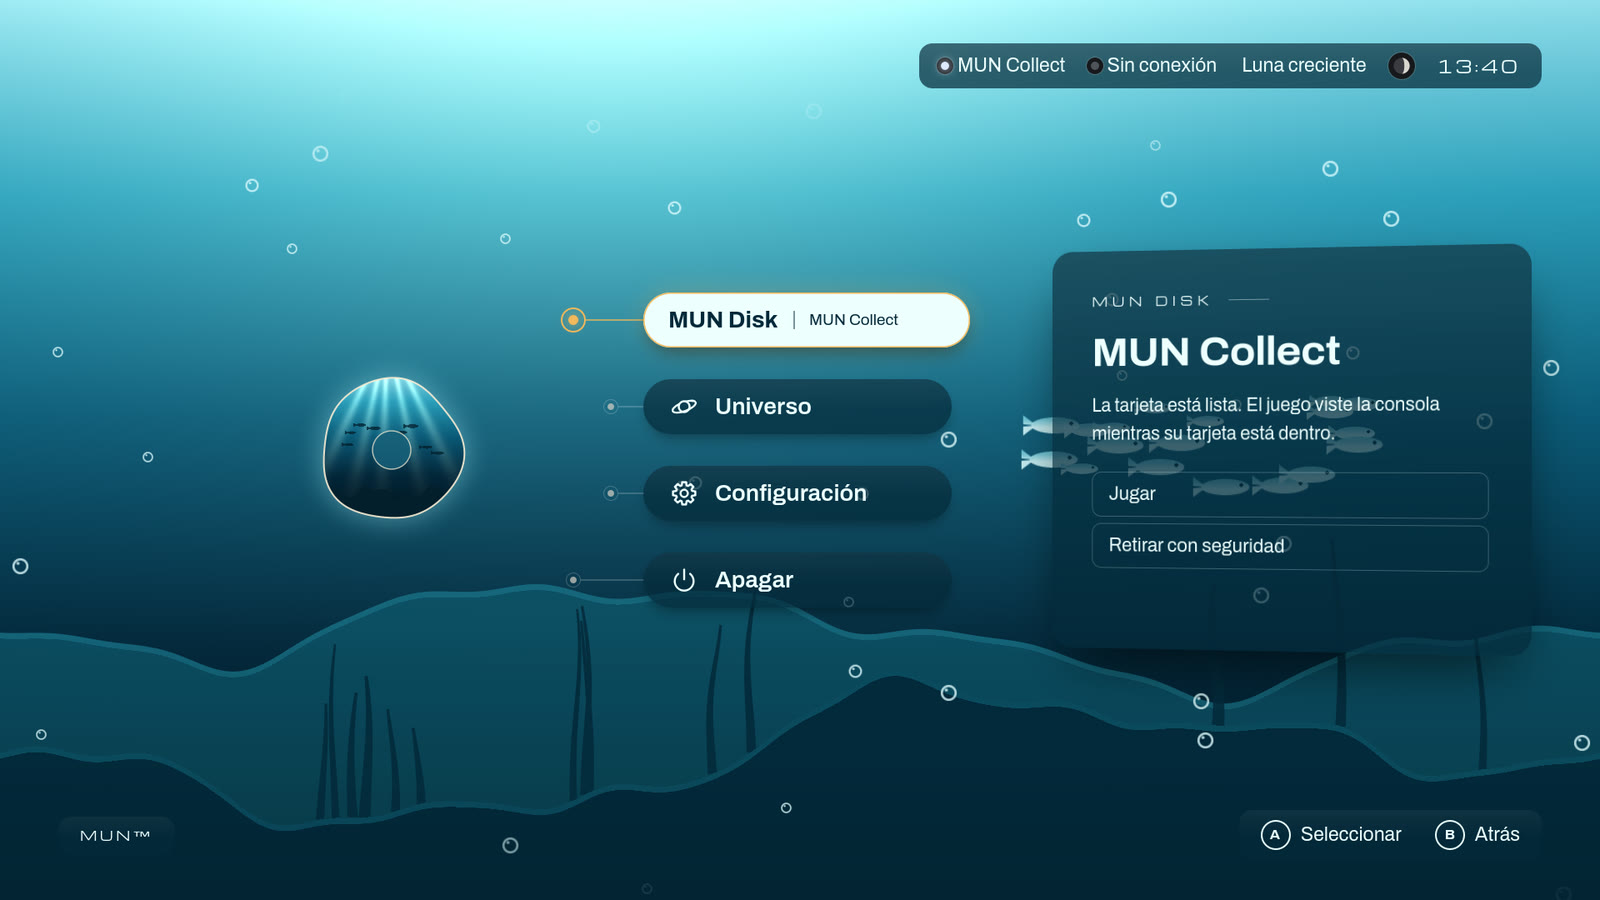
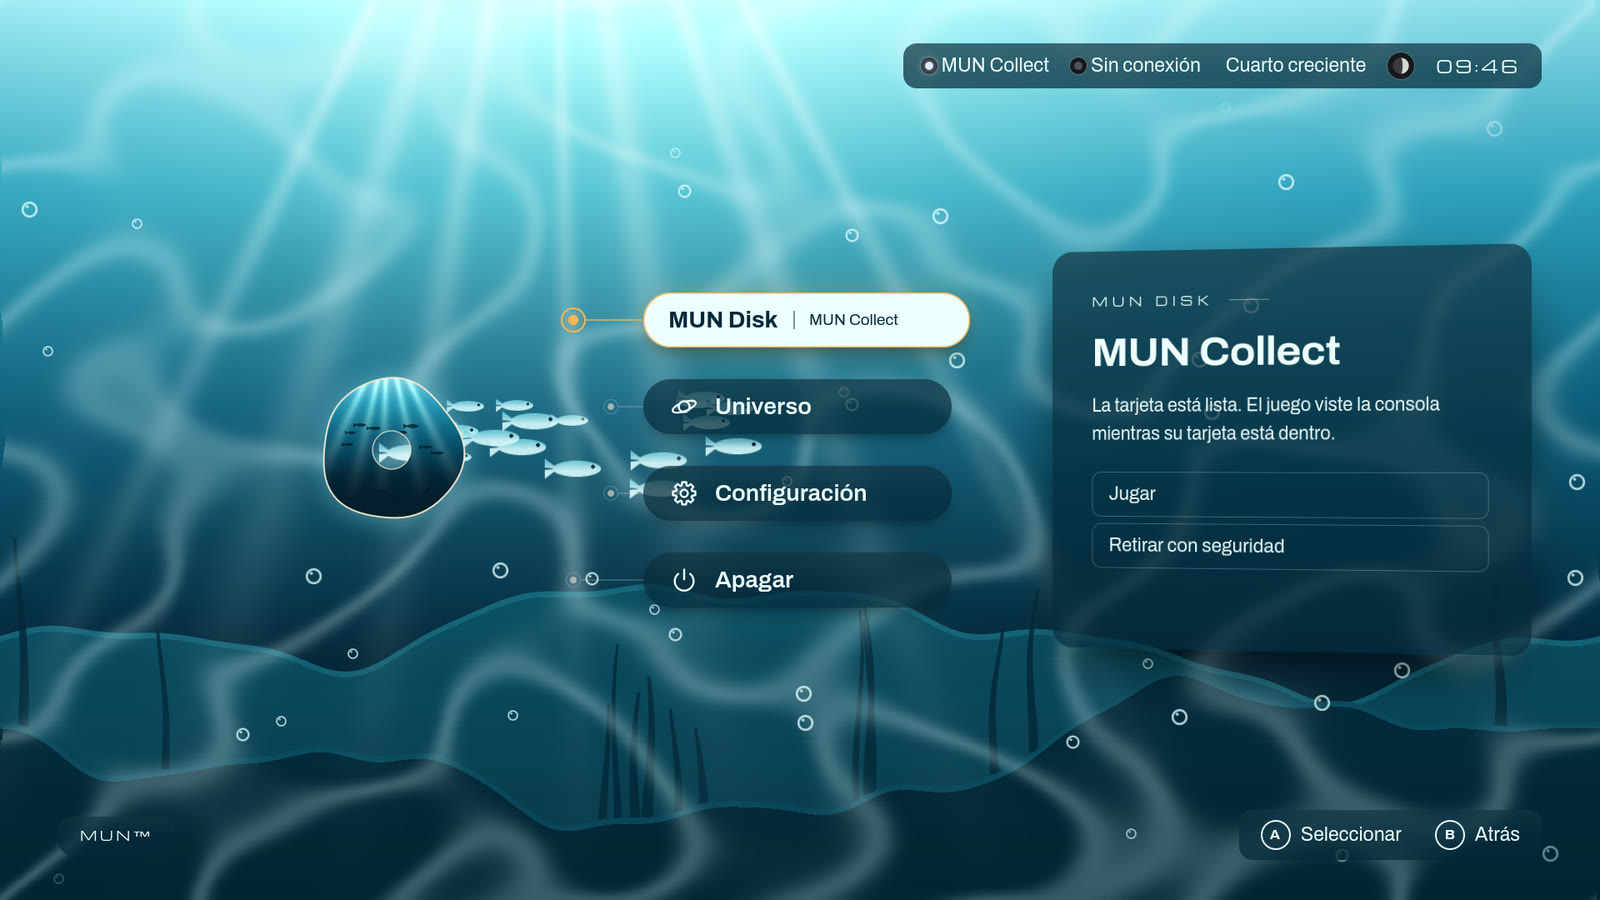
docs: retake the Spanish Home capture dressed in the sea sample
The earlier picture caught the moving scene while its light was faint and
a shoal of fish crossed the panel's text. Taken again from a newer build of
the same work, with that build's own collect-sea card, the same way as the
others; the images' README says which build and when.

diff --git a/docs/images/README.md b/docs/images/README.md
@@ -36,6 +36,14 @@ How they were taken:
   as a player would. Scaled to 1600×900 and saved as JPEG; nothing was
   drawn over them or retouched.
 
+One image was taken again later: `home-sea.es.jpg`, on 2026-11-15, from
+build `20261115T145925Z-3f136840027e` of commit
+`3f136840027eecd97f545a93fac7330abfe73c50` (image SHA-256
[1 lines of base64/hex data omitted]
+same way and with that build's own `collect-sea` card. The earlier one
+caught the scene at a moment when its light was faint and a shoal of fish
+crossed the panel's text.
+
 The time in the top bar is the guest's clock. In the two languages the
-pictures were taken minutes apart: the moving scenes are not at the same
-instant.
+pictures were taken minutes apart, `home-sea.es.jpg` a day later: the
+moving scenes are not at the same instant.
